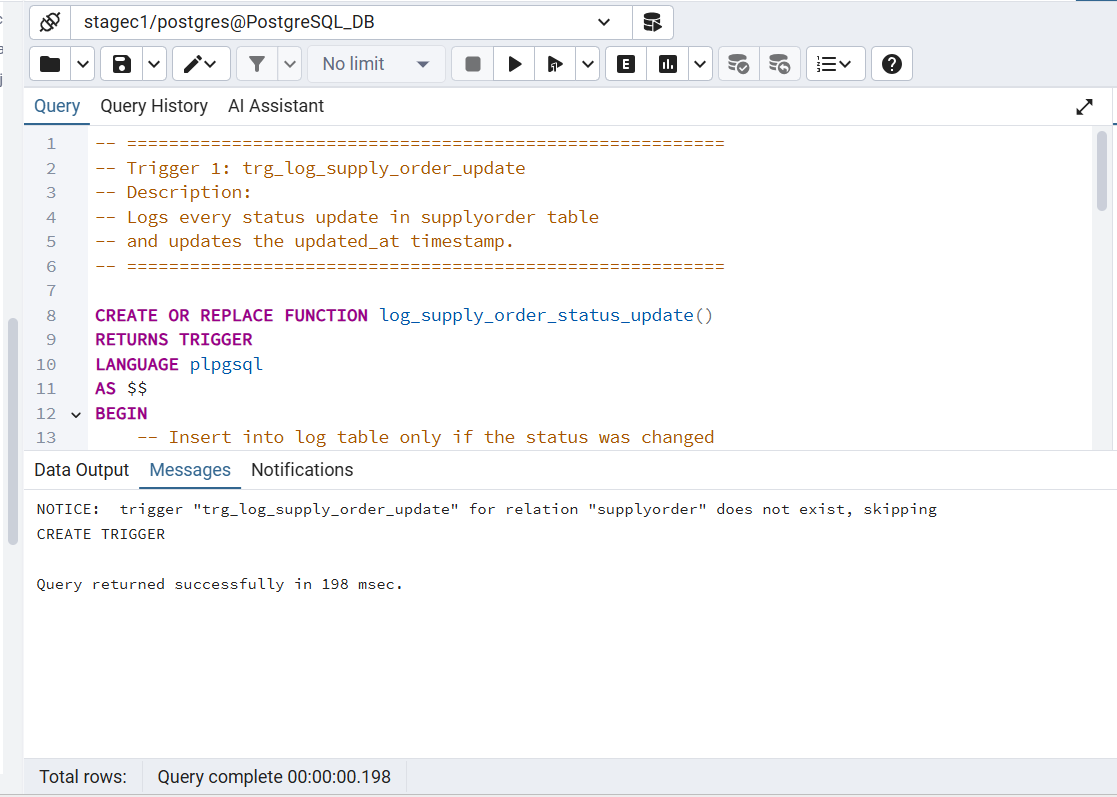
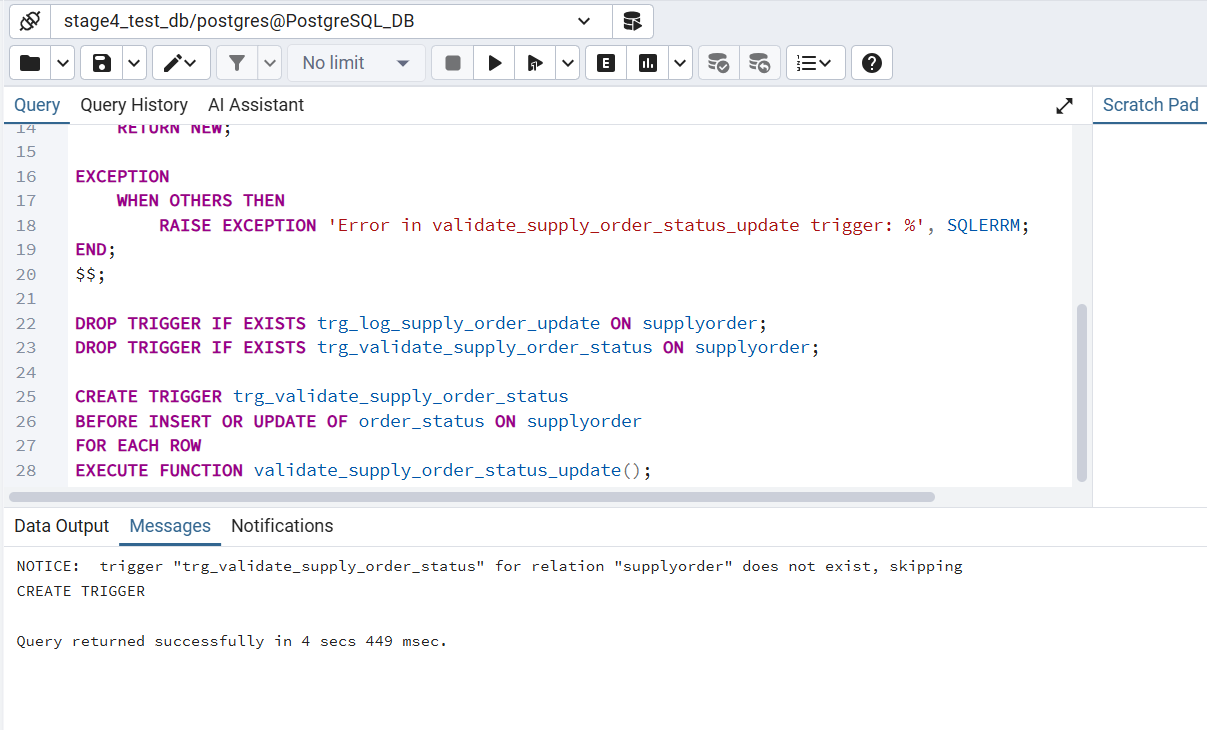
fix stageD

diff --git a/README.md b/README.md
@@ -3089,77 +3089,65 @@ WHERE order_id = 501;
 
 
 <details>
-<summary><b>  טריגר 1 – תיעוד שינוי סטטוס של הזמנת אספקה</b></summary>
+<summary><b>טריגר 1 – בקרת סטטוס הזמנת אספקה</b></summary>
 
-
-## טריגר 1 – תיעוד שינוי סטטוס של הזמנת אספקה
+## טריגר 1 – בקרת סטטוס הזמנת אספקה
 
 הטריגר:
 
 ```text
-trg_log_supply_order_update
+trg_validate_supply_order_status
 ```
 
 משתמש בפונקציית הטריגר:
 
 ```text
-log_supply_order_status_update
+validate_supply_order_status_update
 ```
 
-מטרת הטריגר היא לתעד כל שינוי בסטטוס של הזמנת אספקה בטבלת `supplyorder`.
+מטרת הטריגר היא להבטיח את תקינות הנתונים בטבלת `supplyorder`.
 
-כאשר מתבצע עדכון לעמודה `order_status`, הטריגר מופעל ובודק האם הסטטוס אכן השתנה.
+הטריגר אוכף חוק עסקי שלפיו סטטוס של הזמנת אספקה חייב להיות אחד מהערכים המותרים:
 
-אם הסטטוס השתנה, הטריגר מבצע שתי פעולות:
+```text
+Pending, Shipped, Delivered, Cancelled, Completed
+```
 
-* מעדכן את השדה `updated_at` של ההזמנה לזמן הנוכחי.
-* מוסיף רשומה חדשה לטבלת `supply_order_status_log`, הכוללת את מספר ההזמנה, הסטטוס הישן, הסטטוס החדש וזמן השינוי.
-
-באופן זה ניתן לעקוב אחר שינויי הסטטוס שבוצעו להזמנות האספקה ולשמור היסטוריה של העדכונים.
+כאשר מתבצע ניסיון להכניס או לעדכן סטטוס הזמנה, הטריגר מופעל לפני שהשינוי נשמר בטבלה. אם הסטטוס החדש אינו חוקי, הטריגר חוסם את הפעולה ומחזיר הודעת שגיאה. אם הסטטוס תקין, הטריגר מעדכן אוטומטית את השדה `updated_at` לזמן הנוכחי ומאפשר את ביצוע הפעולה.
 
 ### קוד הטריגר
 
 ```sql
-CREATE OR REPLACE FUNCTION log_supply_order_status_update()
+CREATE OR REPLACE FUNCTION validate_supply_order_status_update()
 RETURNS TRIGGER
 LANGUAGE plpgsql
 AS $$
 BEGIN
-    -- Insert into log table only if the status was changed
-    IF OLD.order_status IS DISTINCT FROM NEW.order_status THEN
-
-        -- Update the order modification time
-        NEW.updated_at := CURRENT_TIMESTAMP;
-
-        -- Save the status change in the log table
-        INSERT INTO supply_order_status_log (
-            order_id,
-            old_status,
-            new_status,
-            change_date
-        )
-        VALUES (
-            OLD.order_id,
-            OLD.order_status,
-            NEW.order_status,
-            CURRENT_TIMESTAMP
-        );
+    -- Business rule: order status must be valid
+    IF NEW.order_status NOT IN ('Pending', 'Shipped', 'Delivered', 'Cancelled', 'Completed') THEN
+        RAISE EXCEPTION
+            'Invalid order status: %. Allowed values are: Pending, Shipped, Delivered, Cancelled, Completed',
+            NEW.order_status;
     END IF;
+
+    -- Automatically update the modification timestamp
+    NEW.updated_at := CURRENT_TIMESTAMP;
 
     RETURN NEW;
 
 EXCEPTION
     WHEN OTHERS THEN
-        RAISE EXCEPTION 'Error in log_supply_order_status_update trigger: %', SQLERRM;
+        RAISE EXCEPTION 'Error in validate_supply_order_status_update trigger: %', SQLERRM;
 END;
 $$;
 
 DROP TRIGGER IF EXISTS trg_log_supply_order_update ON supplyorder;
+DROP TRIGGER IF EXISTS trg_validate_supply_order_status ON supplyorder;
 
-CREATE TRIGGER trg_log_supply_order_update
-BEFORE UPDATE OF order_status ON supplyorder
+CREATE TRIGGER trg_validate_supply_order_status
+BEFORE INSERT OR UPDATE OF order_status ON supplyorder
 FOR EACH ROW
-EXECUTE FUNCTION log_supply_order_status_update();
+EXECUTE FUNCTION validate_supply_order_status_update();
 ```
 
 ### יצירת הטריגר
@@ -3168,9 +3156,23 @@ EXECUTE FUNCTION log_supply_order_status_update();
 
 ![Create Trigger 1](DBProject/dbFiles/triger1_create.png)
 
-### הרצת הטריגר
+### הרצת הטריגר – בדיקת חסימה
 
-כדי להפעיל את הטריגר, בוצע עדכון לסטטוס של הזמנה מספר `501`:
+כדי לוודא שהטריגר מגן על הנתונים, בוצע ניסיון לעדכן את סטטוס הזמנה מספר `501` לסטטוס לא חוקי:
+
+```sql
+UPDATE supplyorder
+SET order_status = 'WrongStatus'
+WHERE order_id = 501;
+```
+
+הטריגר חסם את הפעולה והציג הודעת שגיאה, מכיוון שהסטטוס אינו אחד מהערכים המותרים.
+
+![Run Trigger 1](DBProject/dbFiles/triger1_run.png)
+
+### בדיקת פעולה מאושרת
+
+לאחר מכן בוצע עדכון לסטטוס תקין עבור הזמנה מספר `501`:
 
 ```sql
 UPDATE supplyorder
@@ -3178,7 +3180,7 @@ SET order_status = 'Completed'
 WHERE order_id = 501;
 ```
 
-![Run Trigger 1](DBProject/dbFiles/triger1_run.png)
+העדכון בוצע בהצלחה, משום שהסטטוס `Completed` הוא ערך חוקי.
 
 ### בדיקת עדכון ההזמנה
 
@@ -3193,32 +3195,11 @@ FROM supplyorder
 WHERE order_id = 501;
 ```
 
-בתוצאה ניתן לראות שהסטטוס של ההזמנה השתנה ל־`Completed`, וששדה `updated_at` עודכן אוטומטית.
+בתוצאה ניתן לראות שהסטטוס של ההזמנה השתנה ל־`Completed`, וששדה `updated_at` עודכן אוטומטית לזמן הנוכחי.
 
 ![Trigger 1 Order Check](DBProject/dbFiles/triger1_select.png)
 
-### בדיקת טבלת הלוג
-
-לבסוף נבדקה טבלת הלוג:
-
-```sql
-SELECT
-    log_id,
-    order_id,
-    old_status,
-    new_status,
-    change_date
-FROM supply_order_status_log
-WHERE order_id = 501
-ORDER BY log_id DESC;
-```
-
-בתוצאה ניתן לראות שנוספה רשומת לוג חדשה עבור הזמנה מספר `501`, שבה הסטטוס הישן הוא `Pending` והסטטוס החדש הוא `Completed`.
-
-![Trigger 1 Log Check](DBProject/dbFiles/triger1_log.png)
-
-הצילומים מוכיחים שהטריגר נוצר בהצלחה, הופעל בעת שינוי סטטוס של הזמנה, עדכן את זמן העדכון של ההזמנה והוסיף תיעוד מתאים לטבלת הלוג.
-
+הצילומים מוכיחים שהטריגר נוצר בהצלחה, חוסם סטטוס לא חוקי, מאפשר עדכון סטטוס תקין, ומעדכן אוטומטית את זמן העדכון של ההזמנה.
 
 </details>
 
